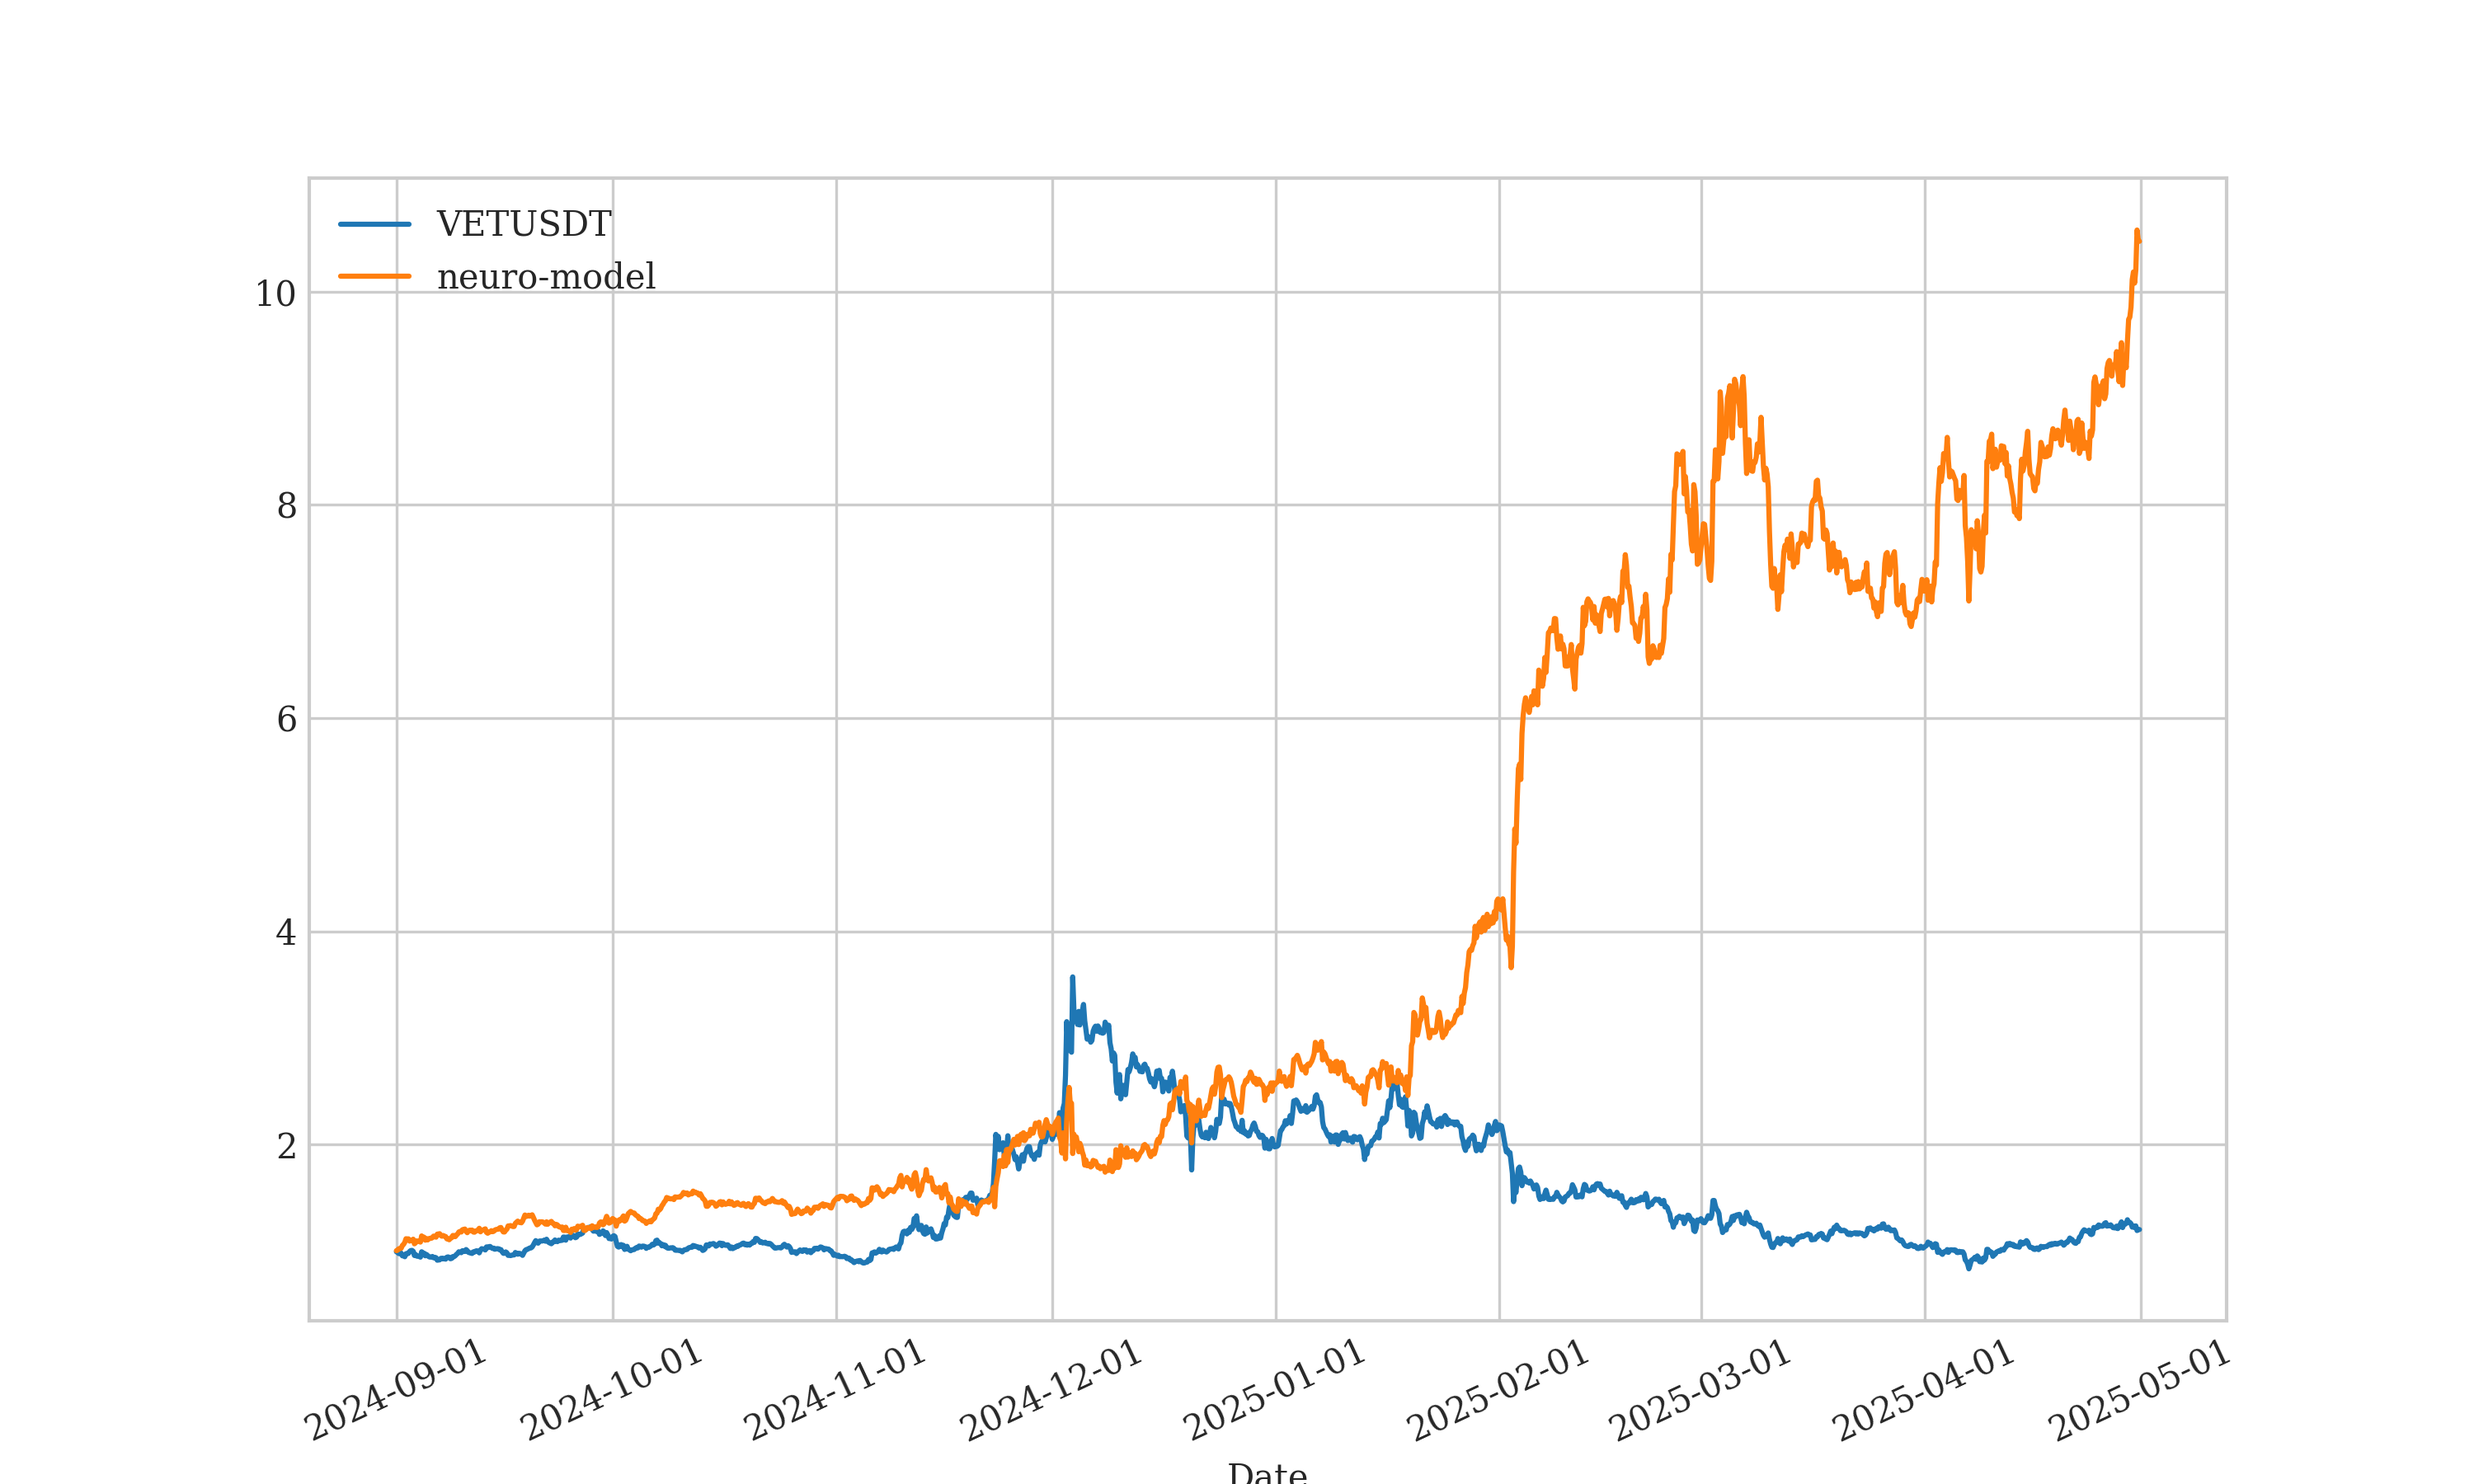
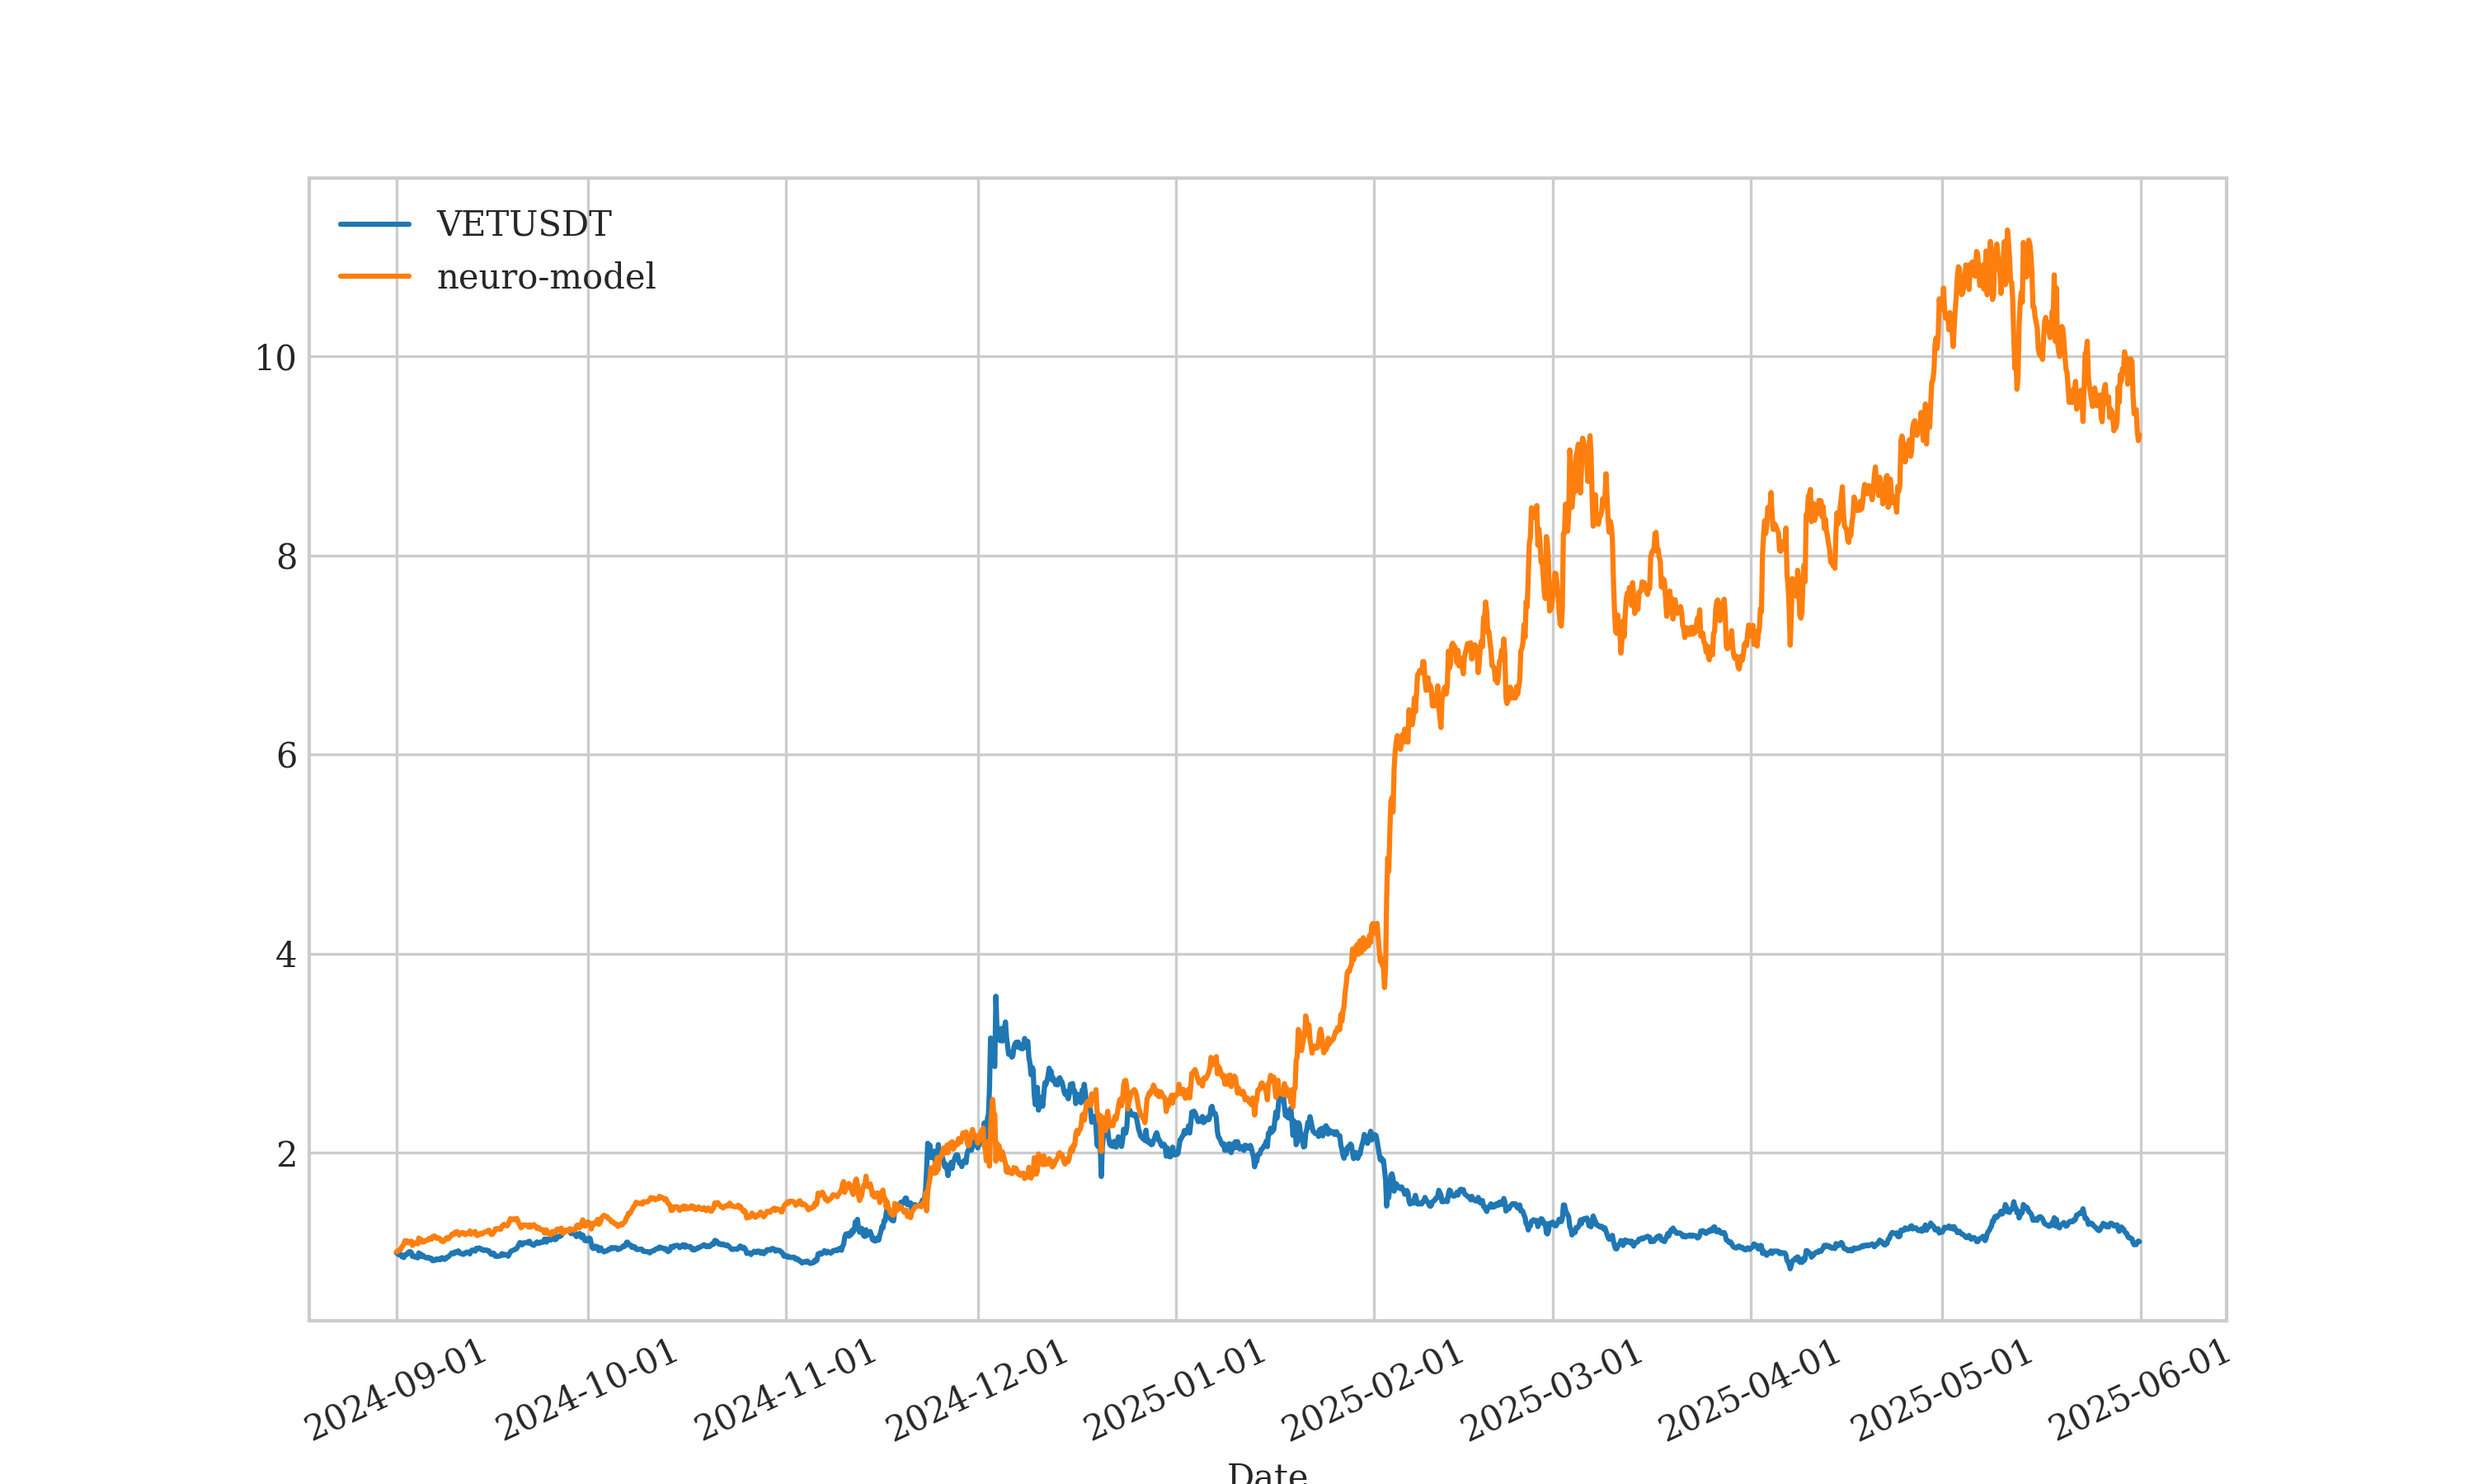
update performance, May 2025

diff --git a/PERFORMANCE.md b/PERFORMANCE.md
@@ -10,6 +10,7 @@ _Note: Performance does not include commissions_
 | Feb 25                      |                       | +59%                  |
 | Mar 25                      | +35%                  | +50%                  |
 | Apr 25                      | +59%                  | +60%                  |
+| May 25                      | +2%                   | -15%                  |
 
 ---
 
@@ -27,7 +28,7 @@ _Note: Performance does not include commissions_
 | Feb 25                      | +66%                   |
 | Mar 25                      | -21%                   |
 | Apr 25                      | +9%                    |
-
+| May 25                      | +3%                    |
 
 ---
 
@@ -48,7 +49,7 @@ _Note: Performance does not include commissions_
 | Feb 25                      | +75%                  |
 | Mar 25                      | -3%                   |
 | Apr 25                      | +43%                  |
-
+| May 25                      | -13%                  |
 
 
 ---
@@ -69,6 +70,7 @@ _Note: Performance does not include commissions_
 | Feb 25                      | +184%                 | +16%                  |
 | Mar 25                      | +7%                   | +40%                  |
 | Apr 25                      | +38%                  | -15%                  |
+| May 25                      | +15%                  | +11%                  |
 
 
 
